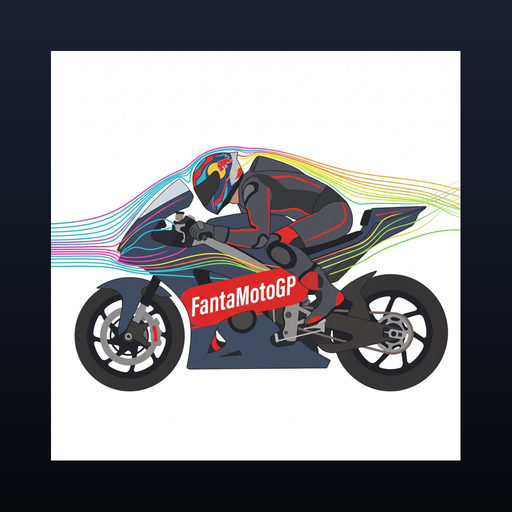
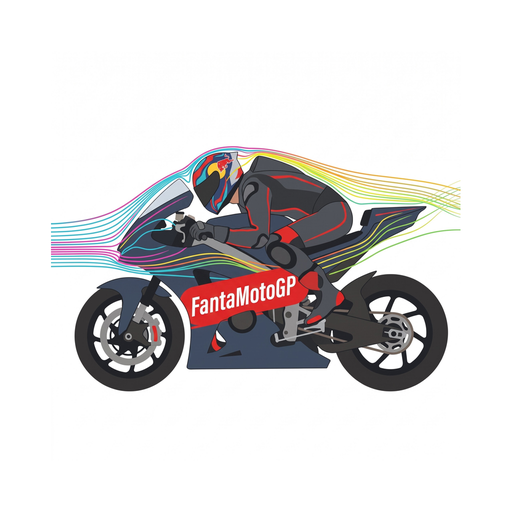
Aggiornamento dati

diff --git a/index.html b/index.html
@@ -8,7 +8,6 @@
   <meta name="theme-color" content="#0b0d12" media="(prefers-color-scheme: dark)">
   <meta name="theme-color" content="#f4f5f8" media="(prefers-color-scheme: light)">
   <link rel="manifest" href="manifest.webmanifest">
-  <link rel="icon" href="icons/icon.svg" type="image/svg+xml">
   <link rel="icon" href="icons/favicon-32.png" type="image/png" sizes="32x32">
   <link rel="apple-touch-icon" href="icons/apple-touch-icon.png">
   <meta name="apple-mobile-web-app-capable" content="yes">
@@ -18,7 +17,7 @@
   <link rel="preconnect" href="https://fonts.googleapis.com">
   <link rel="preconnect" href="https://fonts.gstatic.com" crossorigin>
   <link href="https://fonts.googleapis.com/css2?family=Titillium+Web:wght@400;600;700;900&display=swap" rel="stylesheet">
-  <link rel="stylesheet" href="styles.css?v=3d6fc914d2">
+  <link rel="stylesheet" href="styles.css?v=6b533d873b">
   <!-- stile della schermata di apertura qui dentro: funziona anche se il telefono
        ha ancora in memoria uno styles.css vecchio -->
   <style>
@@ -55,7 +54,7 @@
 <body>
   <!-- Schermata di apertura: per cambiare le scritte modifica le due righe qui sotto -->
   <div id="splash" aria-hidden="true">
-    <img src="icons/icon.svg" alt="" class="splash-logo">
+    <img src="icons/logo.png?v=fec127f082" alt="" class="splash-logo">
     <div class="splash-title">Daghe polso!</div>
     <div class="splash-sub">FantaMotoGP league 2026</div>
   </div>
@@ -66,7 +65,7 @@
 
   <header class="topbar">
     <a href="#/" class="brand" aria-label="Home">
-      <img src="icons/icon.svg" alt="" class="brand-mark">
+      <img src="icons/logo.png?v=fec127f082" alt="" class="brand-mark">
       <span class="brand-text">Fanta<b>MotoGP</b><small>2026</small></span>
     </a>
     <nav class="top-actions">

diff --git a/sw.js b/sw.js
@@ -1,8 +1,8 @@
 // FantaMotoGP - service worker: rete prima, cache solo per l'uso offline.
 // Cosi' dopo ogni pubblicazione si vedono subito i dati nuovi.
-const CACHE = "fantamotogp-v3";
+const CACHE = "fantamotogp-v4";
 const SHELL = ["./", "index.html", "styles.css", "app.js", "manifest.webmanifest",
-  "icons/icon.svg", "icons/icon-192.png", "icons/favicon-32.png", "data/league.json", "data/standings.json", "data/season.json",
+  "icons/logo.png", "icons/icon-192.png", "icons/favicon-32.png", "data/league.json", "data/standings.json", "data/season.json",
   "data/config.json"];
 
 self.addEventListener("install", (e) => {

diff --git a/styles.css b/styles.css
@@ -92,7 +92,7 @@ svg { width: 22px; height: 22px; fill: none; stroke: currentColor; stroke-width:
   border-bottom: 1px solid var(--line);
 }
 .brand { display: flex; align-items: center; gap: 10px; }
-.brand-mark { width: 36px; height: 36px; display: block; flex: none; }
+.brand-mark { width: 36px; height: 36px; display: block; flex: none; border-radius: 9px; }
 /* (lo stile della schermata di apertura #splash e' dentro index.html) */
 .brand-text { font-size: 19px; font-weight: 600; letter-spacing: -.2px; }
 .brand-text b { font-weight: 900; font-style: italic; }
